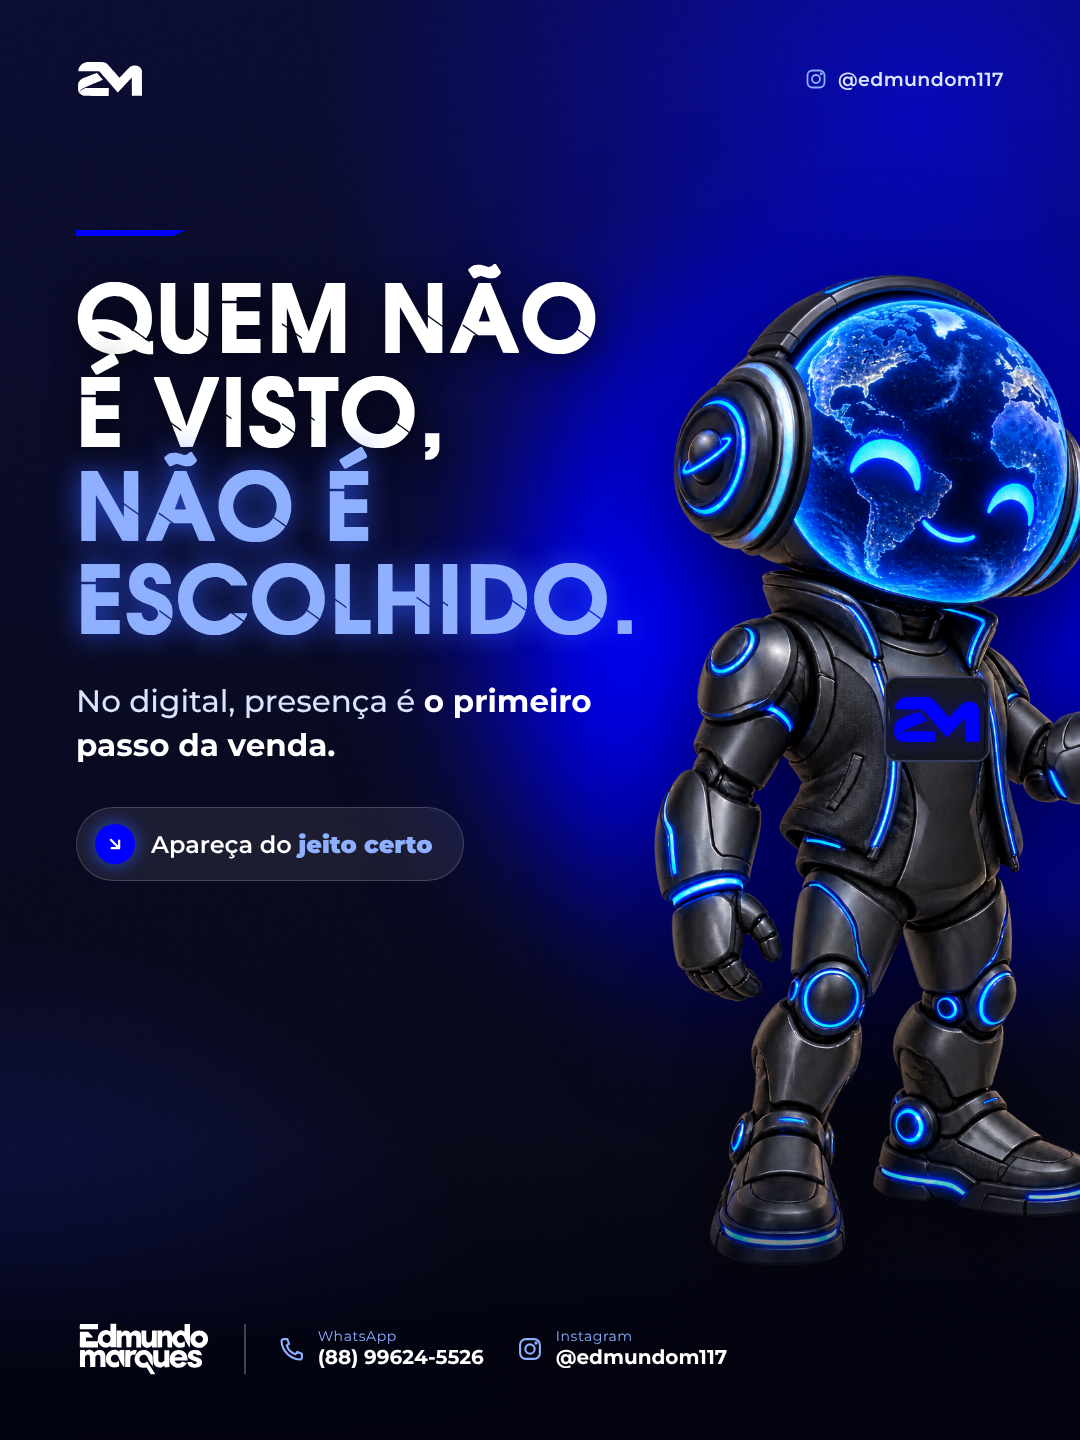
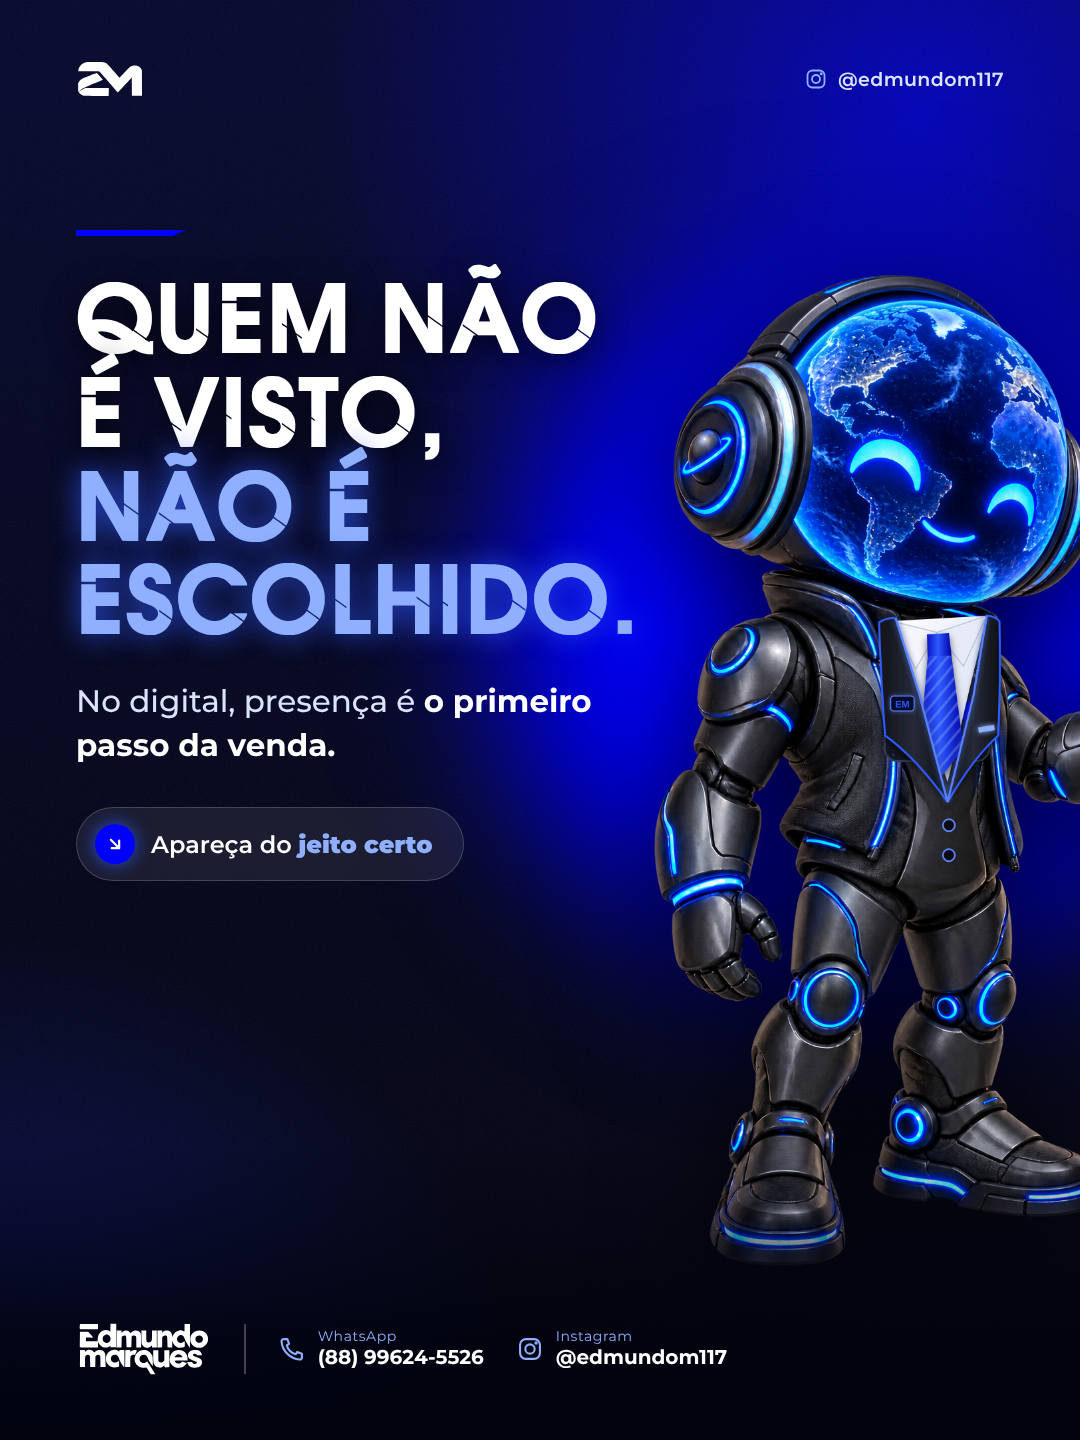
Campanha dores: Mundo de terno e gravata nos posts 1 e 11
Claude-Session: https://claude.ai/code/session_011ixy7renb3izevRWvSjSQM

Changed region(s): [[0.7944, 0.4062, 0.9472, 0.5938]]

diff --git a/instagram/campanha-dores/img/mundo-terno.html b/instagram/campanha-dores/img/mundo-terno.html
@@ -1,0 +1,37 @@
+<!doctype html><html><head><style>html,body{margin:0;background:transparent}#m{position:relative;width:946px;height:1504px}#m img,#m svg{position:absolute;left:0;top:0}</style></head><body>
+<div id="m"><img src="mundo.png" width="946" height="1504">
+<svg width="946" height="1504" viewBox="0 0 946 1504">
+<defs>
+ <linearGradient id="suit" x1="0" y1="0" x2="1" y2="0"><stop offset="0" stop-color="#101219"/><stop offset=".5" stop-color="#262a38"/><stop offset="1" stop-color="#0d0f16"/></linearGradient>
+ <linearGradient id="suitV" x1="0" y1="0" x2="0" y2="1"><stop offset="0" stop-color="#2a2f40"/><stop offset="1" stop-color="#0b0c12"/></linearGradient>
+ <linearGradient id="shirt" x1="0" y1="0" x2="1" y2="1"><stop offset="0" stop-color="#ffffff"/><stop offset=".7" stop-color="#dfe5f5"/><stop offset="1" stop-color="#aab4cf"/></linearGradient>
+ <linearGradient id="tie" x1="0" y1="0" x2="1" y2="0"><stop offset="0" stop-color="#0a14c8"/><stop offset=".45" stop-color="#2f5bff"/><stop offset="1" stop-color="#0000a8"/></linearGradient>
+ <filter id="sh" x="-20%" y="-20%" width="140%" height="140%"><feDropShadow dx="0" dy="6" stdDeviation="6" flood-color="#000" flood-opacity=".6"/></filter>
+ <filter id="gl" x="-50%" y="-50%" width="200%" height="200%"><feGaussianBlur stdDeviation="4" result="b"/><feMerge><feMergeNode in="b"/><feMergeNode in="SourceGraphic"/></feMerge></filter>
+ <pattern id="stripe" width="14" height="14" patternUnits="userSpaceOnUse" patternTransform="rotate(40)"><rect width="14" height="14" fill="none"/><rect width="4" height="14" fill="#8fb0ff" opacity=".35"/></pattern>
+</defs>
+<!-- jacket body filling the open front -->
+
+<!-- shirt V -->
+<path d="M362 528 L505 520 L446 770 Z" fill="url(#shirt)" filter="url(#sh)"/>
+<!-- collar points -->
+<path d="M362 528 L430 545 L398 600 Z" fill="#f4f6fc" stroke="#b9c2dc" stroke-width="1.5"/>
+<path d="M505 520 L430 545 L470 596 Z" fill="#e6ebf7" stroke="#b9c2dc" stroke-width="1.5"/>
+<!-- tie -->
+<g filter="url(#sh)">
+ <path d="M415 548 L448 546 L452 580 L416 582 Z" fill="url(#tie)"/>
+ <path d="M416 582 L452 580 L470 720 L438 760 L404 722 Z" fill="url(#tie)"/>
+ <path d="M416 582 L452 580 L470 720 L438 760 L404 722 Z" fill="url(#stripe)"/>
+</g>
+<!-- lapels -->
+<path d="M343 530 Q356 522 368 524 L404 640 L446 800 Q400 735 352 700 Q346 620 343 530 Z" fill="url(#suit)" stroke="#2f5bff" stroke-width="3" filter="url(#sh)"/>
+<path d="M505 520 Q516 520 524 528 Q526 620 522 700 Q484 735 446 800 L485 640 Z" fill="url(#suit)" stroke="#2f5bff" stroke-width="3" filter="url(#sh)"/>
+<path d="M368 524 L404 640 L446 800" stroke="#5f86ff" stroke-width="3" fill="none" filter="url(#gl)" opacity=".9"/>
+<path d="M505 520 L485 640 L446 800" stroke="#5f86ff" stroke-width="3" fill="none" filter="url(#gl)" opacity=".9"/>
+<!-- buttons -->
+<circle cx="448" cy="835" r="9" fill="#0b0c12" stroke="#5f86ff" stroke-width="2.5"/>
+<circle cx="448" cy="880" r="9" fill="#0b0c12" stroke="#5f86ff" stroke-width="2.5"/>
+<!-- pocket square + EM pin -->
+<path d="M492 688 L516 684 L517 692 L493 696 Z" fill="#8fb0ff" filter="url(#gl)"/>
+<g transform="translate(378 652) scale(.8)" filter="url(#gl)"><rect x="-22" y="-14" width="44" height="28" rx="6" fill="#05072e" stroke="#5f86ff" stroke-width="2"/><text x="0" y="8" text-anchor="middle" font-family="Arial Black,Arial" font-weight="900" font-size="18" fill="#2f5bff">EM</text></g>
+</svg></div></body></html>

diff --git a/instagram/campanha-dores/posts.html b/instagram/campanha-dores/posts.html
@@ -79,7 +79,7 @@ const P={
 // 1 Invisibilidade
 1:{html:`${grain}
   <div class="glow" style="width:700px;height:700px;right:-120px;top:280px;background:#0000ff"></div>
-  <img src="img/mundo.png" style="position:absolute;right:-200px;bottom:170px;height:1000px;z-index:2;filter:drop-shadow(0 30px 60px #000c)">
+  <img src="img/mundo-terno.png" style="position:absolute;right:-200px;bottom:170px;height:1000px;z-index:2;filter:drop-shadow(0 30px 60px #000c)">
   <div class="fadebot"></div>
   ${top_()}
   <div class="block" style="top:230px;width:640px">
@@ -209,7 +209,7 @@ const P={
 // 11 Servicos
 11:{html:`${grain}
   <div class="glow" style="width:620px;height:760px;right:-160px;top:420px;background:#0000ff;opacity:.75"></div>
-  <img src="img/mundo.png" style="position:absolute;right:-230px;bottom:150px;height:800px;z-index:2;filter:drop-shadow(0 30px 60px #000c)">
+  <img src="img/mundo-terno.png" style="position:absolute;right:-230px;bottom:150px;height:800px;z-index:2;filter:drop-shadow(0 30px 60px #000c)">
   <div class="fadebot" style="height:200px"></div>
   ${top_()}
   <div class="block" style="top:220px;width:660px">
